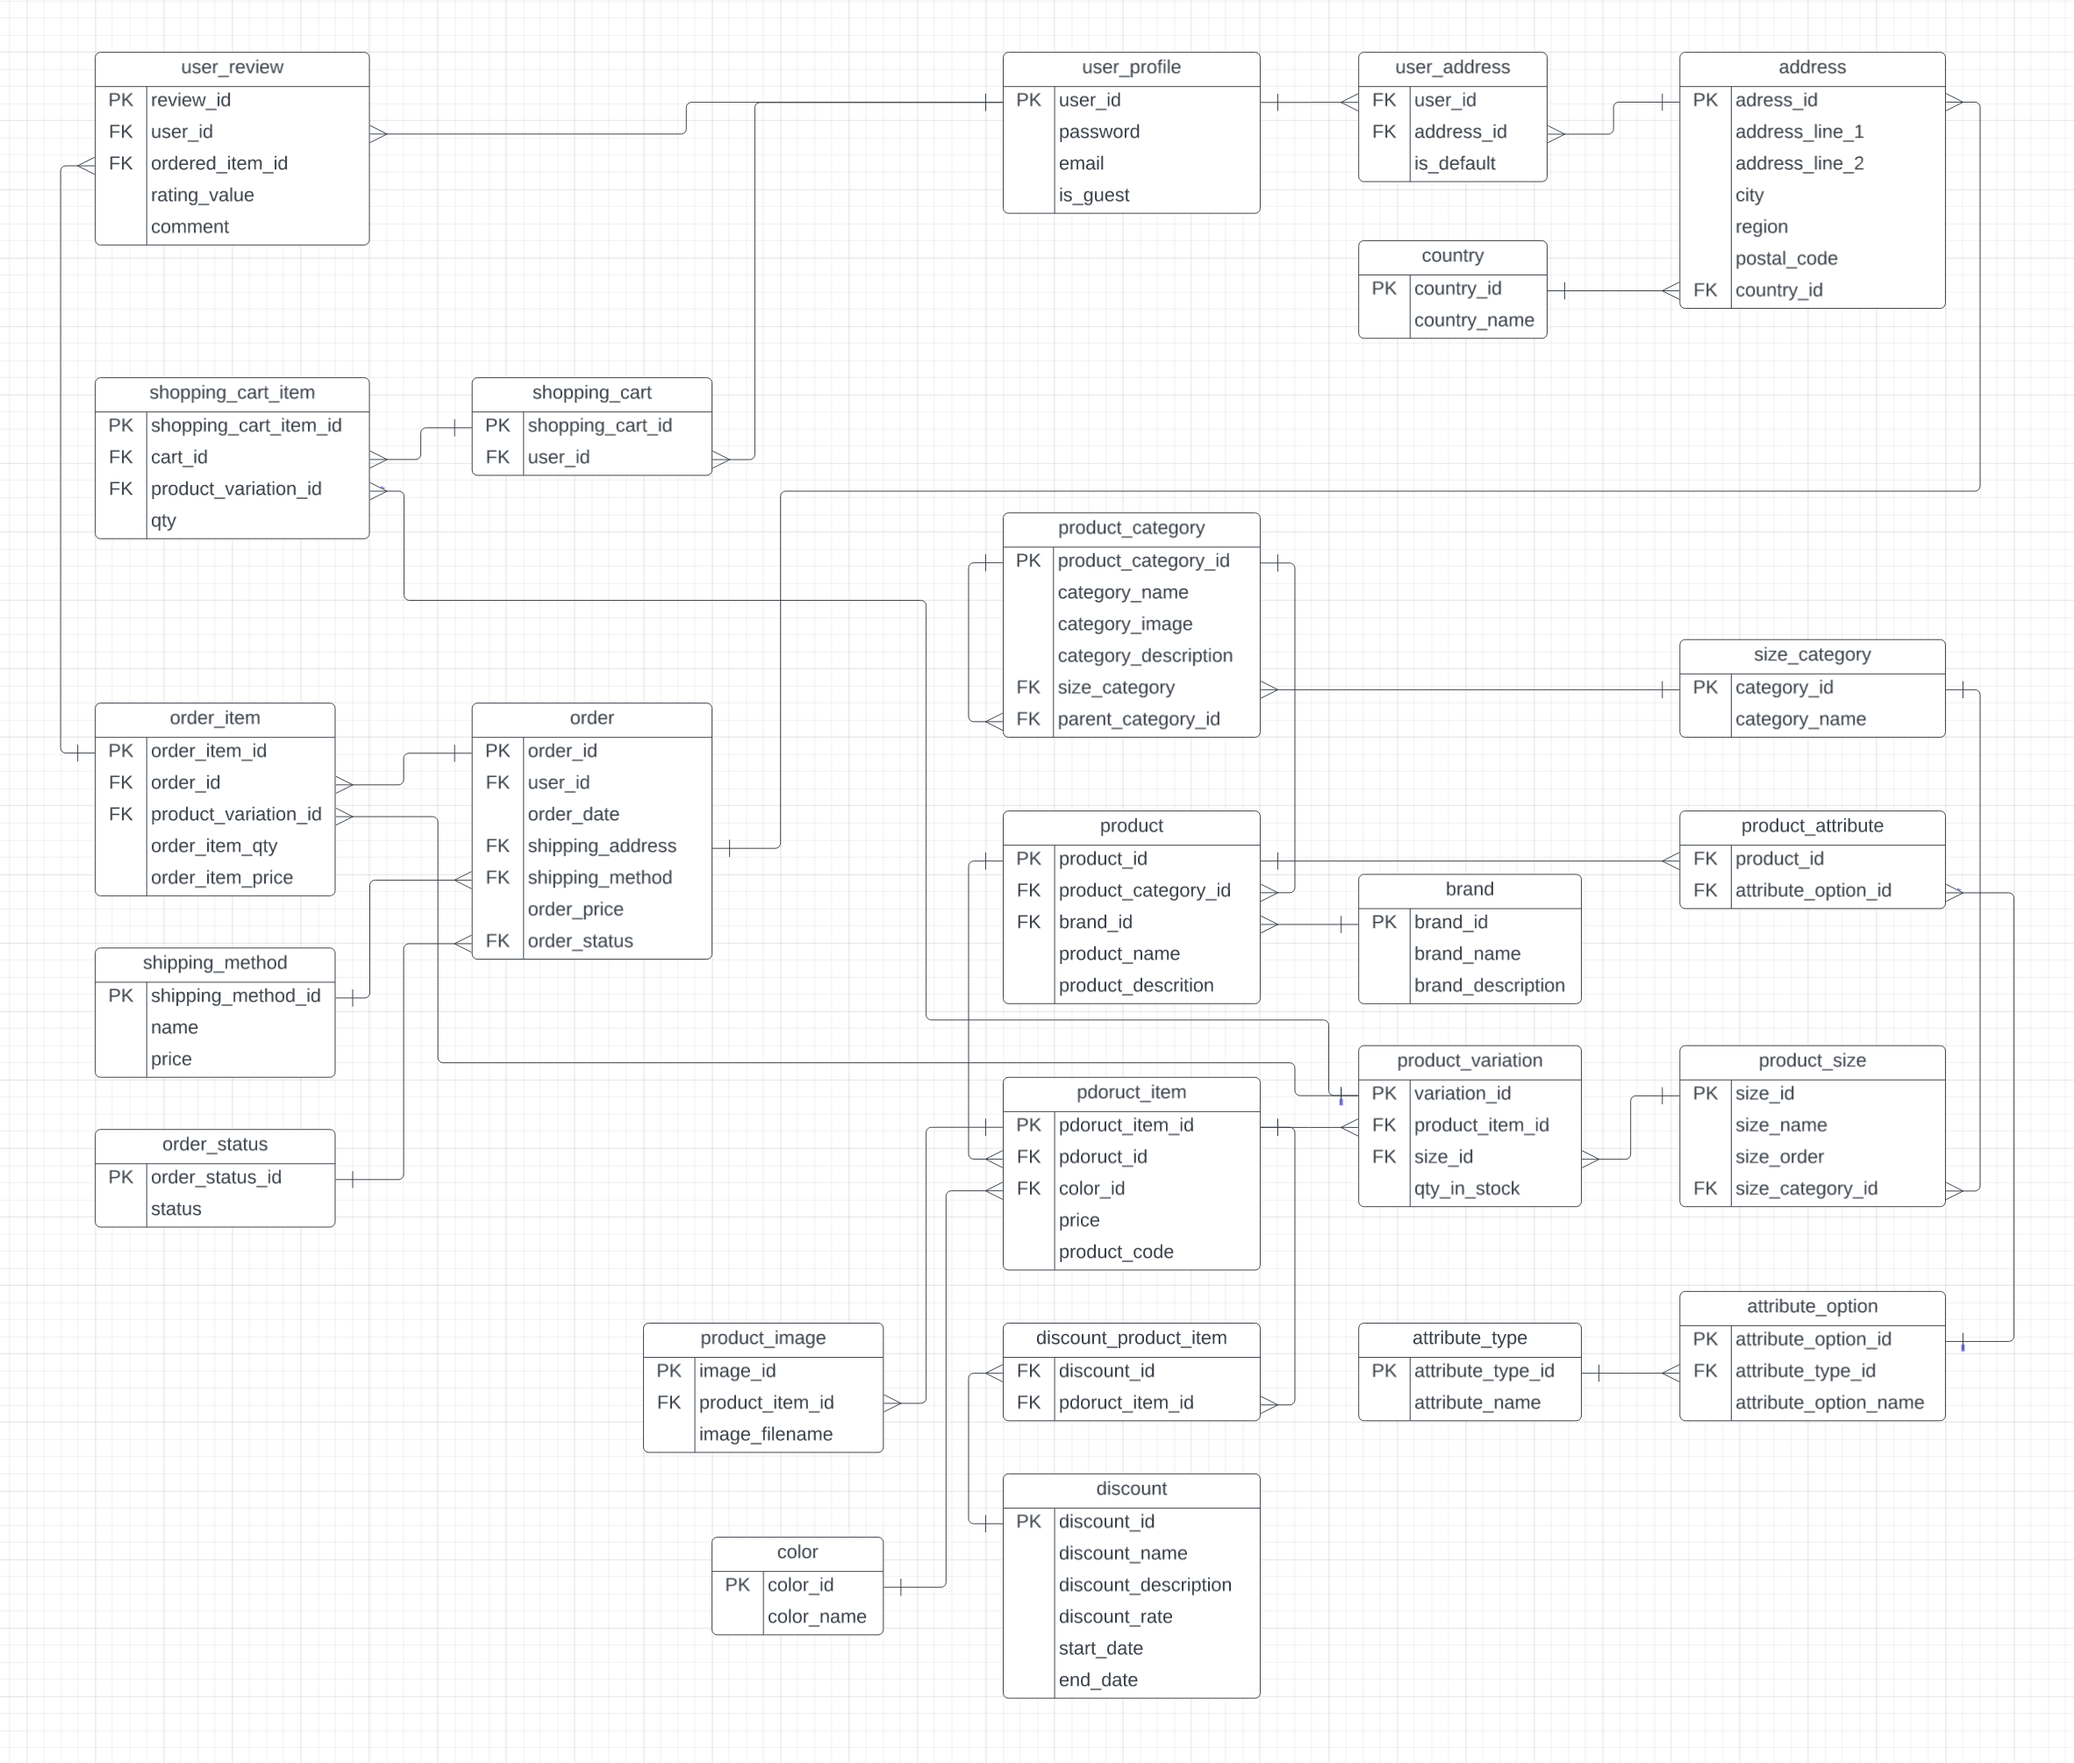
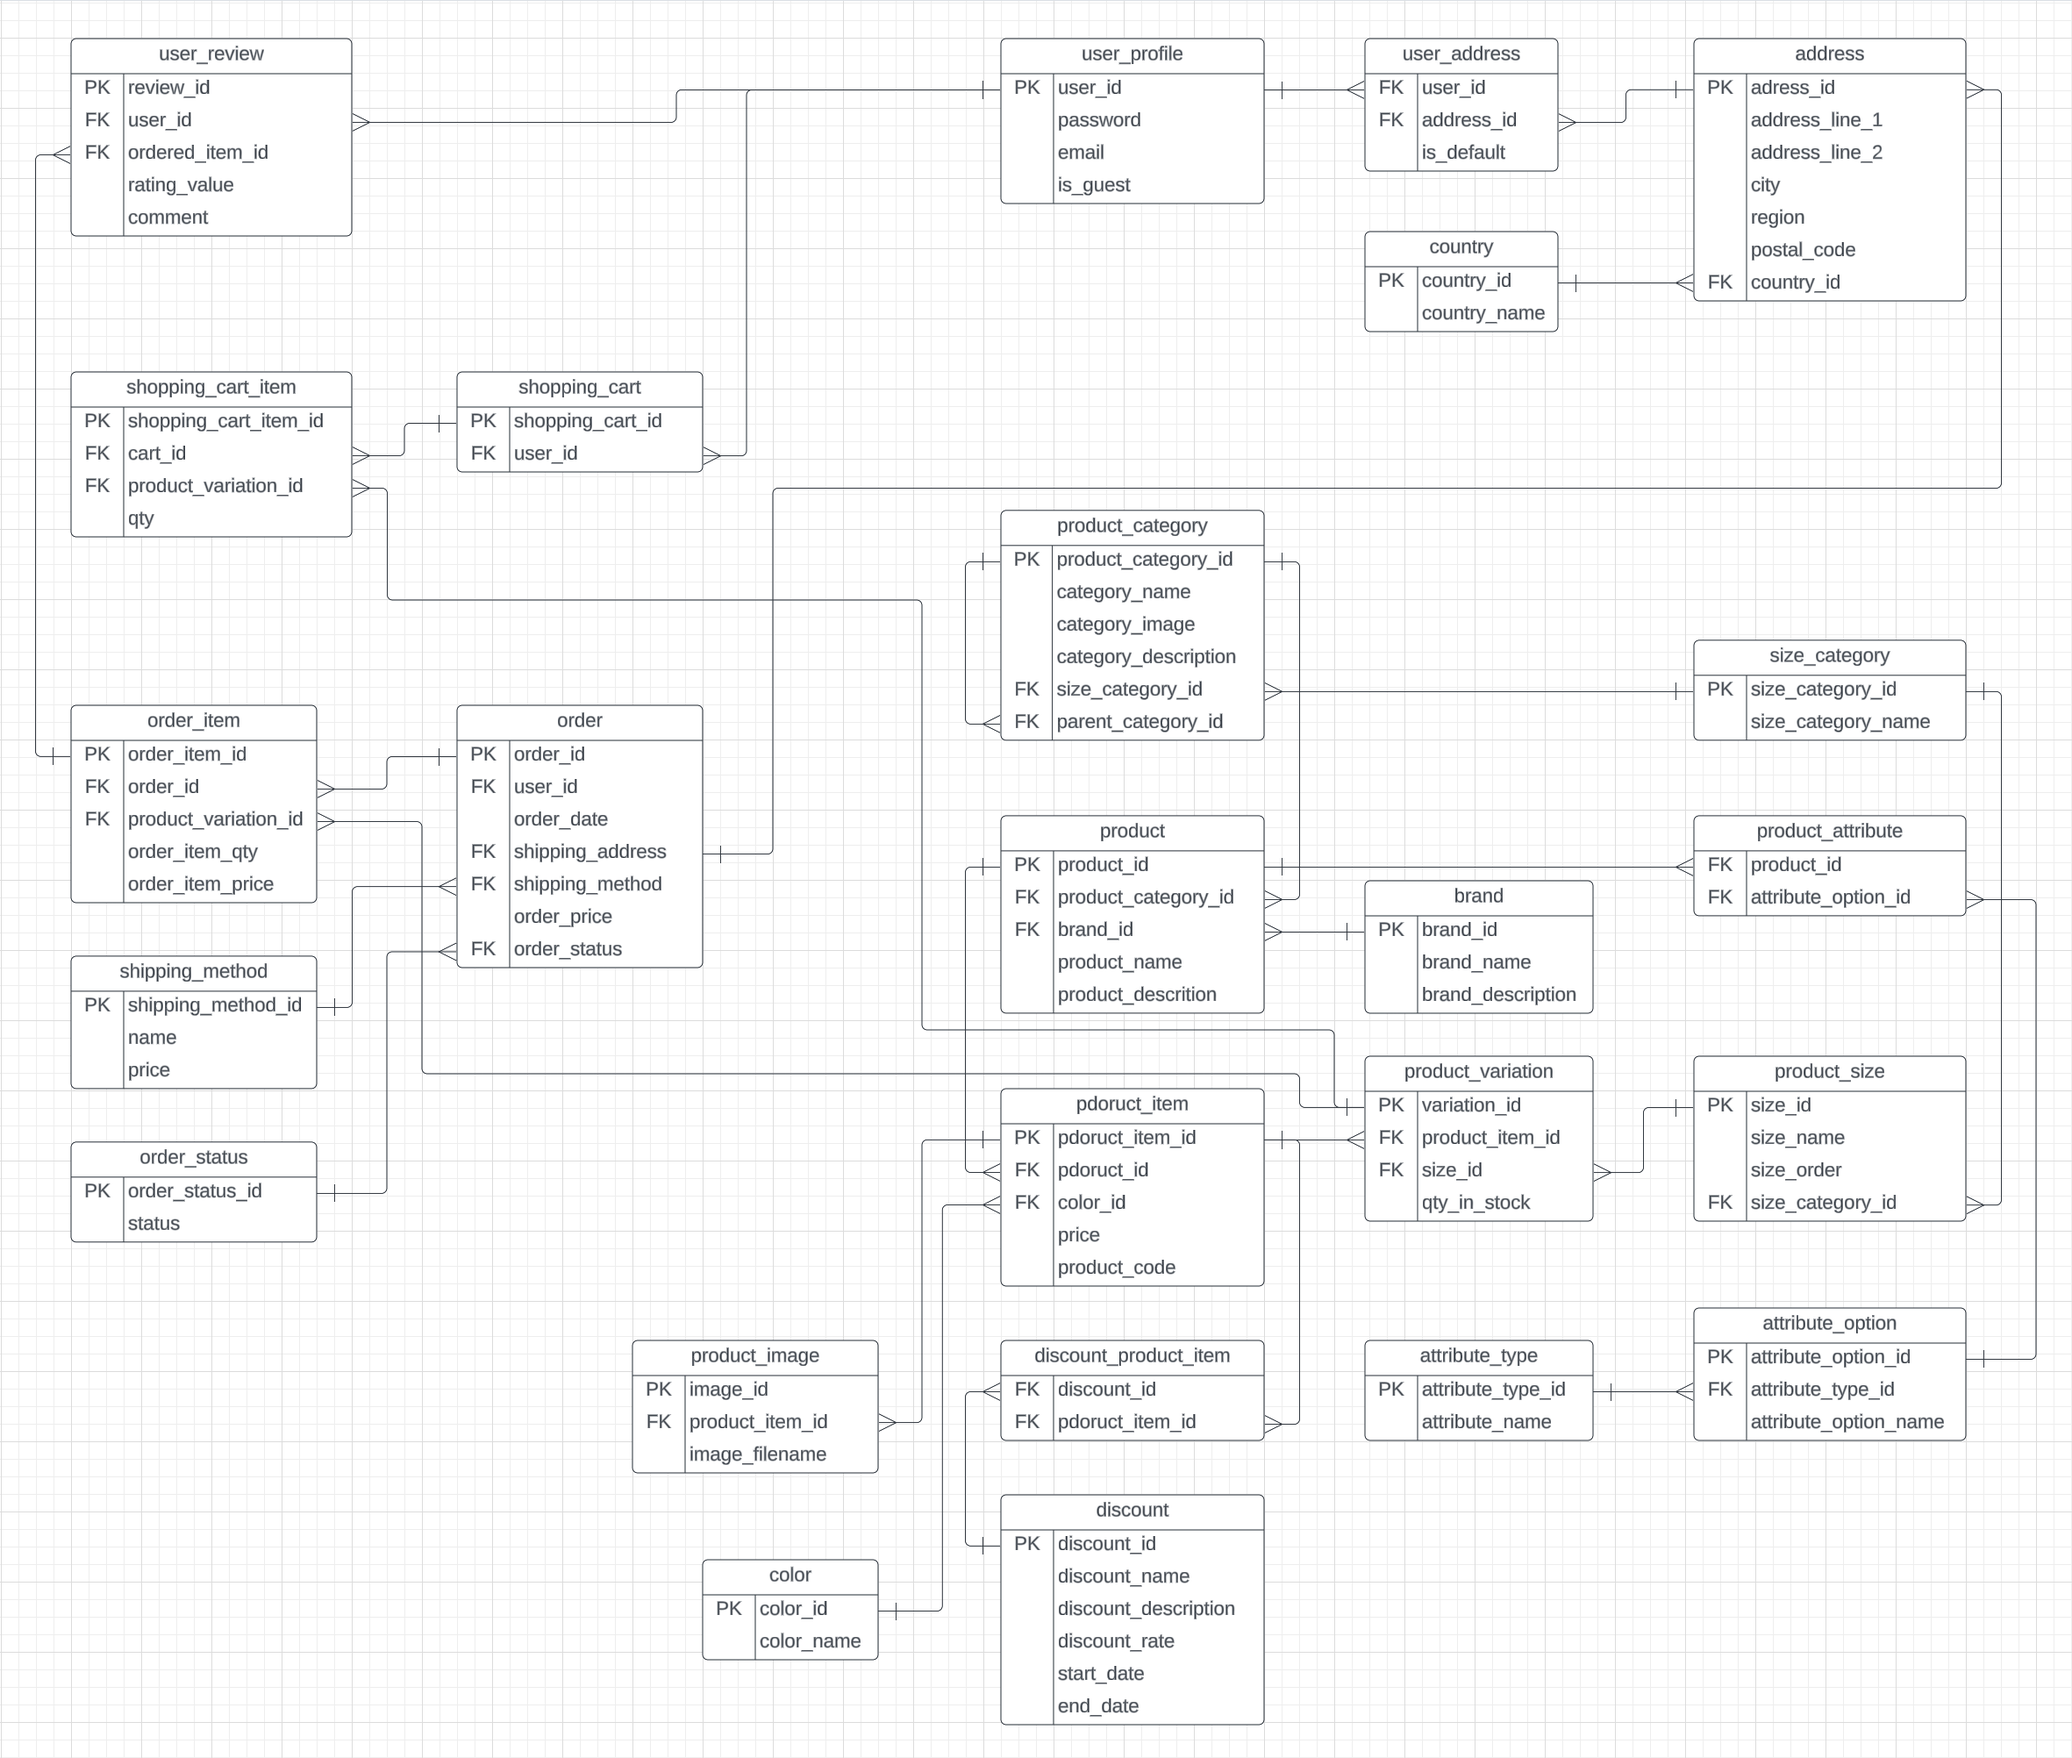
ADD: Product models

diff --git a/app/ecommerce/migrations/0006_attributeoption_attributetype_brand_color_discount_and_more.py b/app/ecommerce/migrations/0006_attributeoption_attributetype_brand_color_discount_and_more.py
@@ -1,0 +1,120 @@
+# Generated by Django 4.2.14 on 2024-07-23 16:28
+
+import django.core.validators
+from django.db import migrations, models
+import django.db.models.deletion
+
+
+class Migration(migrations.Migration):
+
+    dependencies = [
+        ('ecommerce', '0005_rename_name_address_first_name_and_more'),
+    ]
+
+    operations = [
+        migrations.CreateModel(
+            name='AttributeOption',
+            fields=[
+                ('id', models.BigAutoField(auto_created=True, primary_key=True, serialize=False, verbose_name='ID')),
+                ('attribute_option_name', models.CharField(max_length=255)),
+            ],
+        ),
+        migrations.CreateModel(
+            name='AttributeType',
+            fields=[
+                ('id', models.BigAutoField(auto_created=True, primary_key=True, serialize=False, verbose_name='ID')),
+                ('attribute_name', models.CharField(max_length=255)),
+            ],
+        ),
+        migrations.CreateModel(
+            name='Brand',
+            fields=[
+                ('id', models.BigAutoField(auto_created=True, primary_key=True, serialize=False, verbose_name='ID')),
+                ('brand_name', models.CharField(max_length=255)),
+                ('brand_description', models.CharField(max_length=255)),
+            ],
+        ),
+        migrations.CreateModel(
+            name='Color',
+            fields=[
+                ('id', models.BigAutoField(auto_created=True, primary_key=True, serialize=False, verbose_name='ID')),
+                ('color_name', models.PositiveIntegerField()),
+            ],
+        ),
+        migrations.CreateModel(
+            name='Discount',
+            fields=[
+                ('id', models.BigAutoField(auto_created=True, primary_key=True, serialize=False, verbose_name='ID')),
+                ('discount_name', models.CharField(max_length=255)),
+                ('discount_description', models.CharField(max_length=255)),
+                ('discount_rate', models.PositiveIntegerField(validators=[django.core.validators.MinValueValidator(1), django.core.validators.MaxValueValidator(100)])),
+                ('start_date', models.DateField()),
+                ('end_date', models.DateField()),
+            ],
+        ),
+        migrations.CreateModel(
+            name='Product',
+            fields=[
+                ('id', models.BigAutoField(auto_created=True, primary_key=True, serialize=False, verbose_name='ID')),
+                ('product_name', models.CharField(max_length=255)),
+                ('product_description', models.CharField(max_length=255)),
+                ('brand', models.ForeignKey(on_delete=django.db.models.deletion.CASCADE, to='ecommerce.brand')),
+                ('product_attribute', models.ManyToManyField(to='ecommerce.attributeoption')),
+            ],
+        ),
+        migrations.CreateModel(
+            name='ProductItem',
+            fields=[
+                ('id', models.BigAutoField(auto_created=True, primary_key=True, serialize=False, verbose_name='ID')),
+                ('price', models.PositiveIntegerField()),
+                ('product_code', models.CharField(max_length=16)),
+                ('color', models.ForeignKey(on_delete=django.db.models.deletion.CASCADE, to='ecommerce.color')),
+                ('discount', models.ManyToManyField(to='ecommerce.discount')),
+                ('product', models.ForeignKey(on_delete=django.db.models.deletion.CASCADE, to='ecommerce.product')),
+            ],
+        ),
+        migrations.CreateModel(
+            name='SizeCategory',
+            fields=[
+                ('id', models.BigAutoField(auto_created=True, primary_key=True, serialize=False, verbose_name='ID')),
+                ('size_category_name', models.CharField(max_length=255)),
+            ],
+        ),
+        migrations.CreateModel(
+            name='ProductSize',
+            fields=[
+                ('id', models.BigAutoField(auto_created=True, primary_key=True, serialize=False, verbose_name='ID')),
+                ('size_name', models.CharField(max_length=255)),
+                ('size_category', models.ForeignKey(on_delete=django.db.models.deletion.CASCADE, to='ecommerce.sizecategory')),
+            ],
+        ),
+        migrations.CreateModel(
+            name='ProductItemImage',
+            fields=[
+                ('id', models.BigAutoField(auto_created=True, primary_key=True, serialize=False, verbose_name='ID')),
+                ('image_filename', models.CharField(max_length=255)),
+                ('product_item', models.ForeignKey(on_delete=django.db.models.deletion.CASCADE, to='ecommerce.productitem')),
+            ],
+        ),
+        migrations.CreateModel(
+            name='ProductCategory',
+            fields=[
+                ('id', models.BigAutoField(auto_created=True, primary_key=True, serialize=False, verbose_name='ID')),
+                ('category_name', models.CharField(max_length=255)),
+                ('category_description', models.CharField(max_length=255)),
+                ('category_image', models.URLField(blank=True, null=True)),
+                ('parent_category', models.ForeignKey(blank=True, null=True, on_delete=django.db.models.deletion.CASCADE, to='ecommerce.productcategory')),
+                ('size_category', models.ForeignKey(on_delete=django.db.models.deletion.CASCADE, to='ecommerce.sizecategory')),
+            ],
+        ),
+        migrations.AddField(
+            model_name='product',
+            name='product_category',
+            field=models.ForeignKey(on_delete=django.db.models.deletion.CASCADE, to='ecommerce.productcategory'),
+        ),
+        migrations.AddField(
+            model_name='attributeoption',
+            name='attribute_type',
+            field=models.ForeignKey(on_delete=django.db.models.deletion.CASCADE, to='ecommerce.attributetype'),
+        ),
+    ]

diff --git a/app/ecommerce/models/models_products.py b/app/ecommerce/models/models_products.py
@@ -1,0 +1,89 @@
+from django.db import models
+from django.core.validators import MinValueValidator, MaxValueValidator
+
+
+class Product(models.Model):
+    product_category = models.ForeignKey('ProductCategory', on_delete=models.CASCADE)
+    brand = models.ForeignKey('Brand', on_delete=models.CASCADE)
+    product_name = models.CharField(max_length=255)
+    product_description = models.CharField(max_length=255)
+    product_attribute = models.ManyToManyField('AttributeOption')
+
+    def __str__(self):
+        return self.product_name
+
+
+class AttributeOption(models.Model):
+    attribute_type = models.ForeignKey('AttributeType', on_delete=models.CASCADE)
+    attribute_option_name = models.CharField(max_length=255)
+
+    def __str__(self):
+        return self.attribute_option_name
+
+
+class AttributeType(models.Model):
+    attribute_name = models.CharField(max_length=255)
+
+    def __str__(self):
+        return self.attribute_name
+
+
+class Brand(models.Model):
+    brand_name = models.CharField(max_length=255)
+    brand_description = models.CharField(max_length=255)
+
+    def __str__(self):
+        return self.brand_name
+
+
+class ProductCategory(models.Model):
+    category_name = models.CharField(max_length=255)
+    category_description = models.CharField(max_length=255)
+    category_image = models.URLField(blank=True, null=True)
+    size_category = models.ForeignKey('SizeCategory', on_delete=models.CASCADE)
+    parent_category = models.ForeignKey('ProductCategory', on_delete=models.CASCADE, blank=True, null=True)
+
+    def __str__(self):
+        return self.category_name
+
+
+class ProductSize(models.Model):
+    size_name = models.CharField(max_length=255)
+    size_category = models.ForeignKey('SizeCategory', on_delete=models.CASCADE)
+
+    def __str__(self):
+        return self.size_name
+
+
+class SizeCategory(models.Model):
+    size_category_name = models.CharField(max_length=255)
+
+    def __str__(self):
+        return self.size_category_name
+
+class ProductItem(models.Model):
+    product = models.ForeignKey('Product', on_delete=models.CASCADE)
+    color = models.ForeignKey('Color', on_delete=models.CASCADE)
+    price = models.PositiveIntegerField()
+    product_code = models.CharField(max_length=16)
+    discount = models.ManyToManyField('Discount')
+
+    def __str__(self):
+        return self.product_code
+
+
+class Color(models.Model):
+    color_name = models.PositiveIntegerField()
+
+
+class ProductItemImage(models.Model):
+    product_item = models.ForeignKey('ProductItem', on_delete=models.CASCADE)
+    image_filename = models.CharField(max_length=255)
+
+
+class Discount(models.Model):
+    discount_name = models.CharField(max_length=255)
+    discount_description = models.CharField(max_length=255)
+    discount_rate = models.PositiveIntegerField(validators=[MinValueValidator(1), MaxValueValidator(100)])
+    start_date = models.DateField()
+    end_date = models.DateField()

diff --git a/app/ecommerce/views/views_users.py b/app/ecommerce/views/views_users.py
@@ -2,7 +2,7 @@ from django.core.cache import cache
 from django.db import IntegrityError
 from django.http import Http404
 
-from rest_framework import status, mixins, viewsets
+from rest_framework import status, mixins
 from rest_framework.decorators import api_view, action
 from rest_framework.generics import CreateAPIView, get_object_or_404, GenericAPIView
 from rest_framework.permissions import IsAuthenticated
@@ -110,7 +110,7 @@ class PasswordResetNewPasswordAPIView(mixins.UpdateModelMixin,
             return Response({'message': 'Password was changed successfully!'},
                             status=status.HTTP_204_NO_CONTENT)
         except TimeoutError:
-            return Response("Link has been expired.",
+            return Response("Link is expired.",
                             status=status.HTTP_400_BAD_REQUEST)
 
 

diff --git a/app/ecommerce/serializers/serislizers_users.py b/app/ecommerce/serializers/serislizers_users.py
@@ -42,6 +42,9 @@ class PasswordSerializer(serializers.ModelSerializer):
     def validate(self, attrs):
         password = attrs.get('password')
         password_confirmation = attrs.pop('password_confirmation', None)
+        if not password:
+            raise serializers.ValidationError("Enter new password.")
+
         if len(password) < 8:
             raise serializers.ValidationError("Passwords must be at lest 8 characters.")
 

diff --git a/app/ecommerce/admin/admin_products.py b/app/ecommerce/admin/admin_products.py
@@ -1,0 +1,13 @@
+from django.contrib import admin
+from ecommerce.models.models_products import *
+
+admin.site.register(Product)
+admin.site.register(AttributeOption)
+admin.site.register(AttributeType)
+admin.site.register(Brand)
+admin.site.register(ProductCategory)
+admin.site.register(ProductSize)
+admin.site.register(SizeCategory)
+admin.site.register(ProductItem)
+admin.site.register(Color)
+admin.site.register(ProductItemImage)

diff --git a/app/ecommerce/models/__init__.py b/app/ecommerce/models/__init__.py
@@ -1,2 +1,3 @@
 from .models_users import *
 from .models_addresses import *
+from .models_products import *

diff --git a/app/ecommerce/admin/__init__.py b/app/ecommerce/admin/__init__.py
@@ -1,2 +1,3 @@
 from .admin_users import *
 from .admin_addresses import *
+from .admin_products import *
